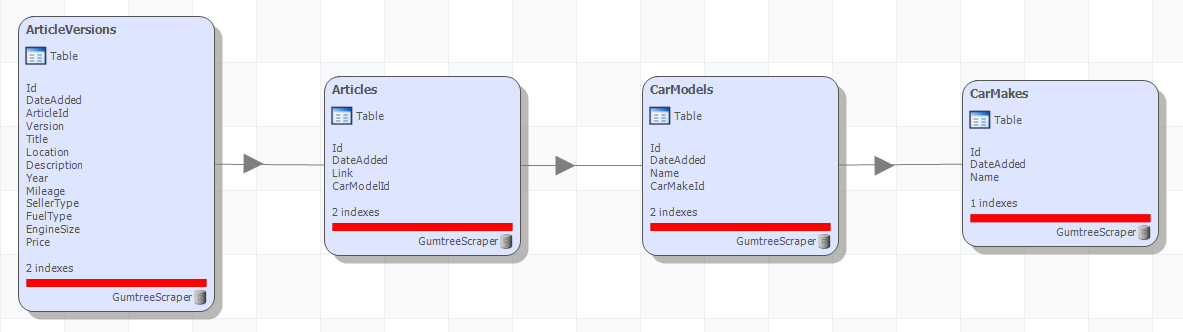
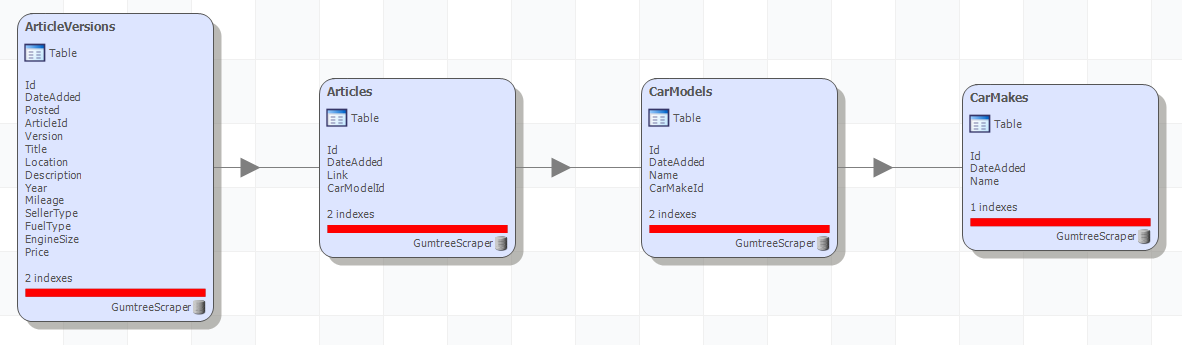
Added Posted property to ArticleVersion. Updated DbModel

diff --git a/GumtreeScraper/Program.cs b/GumtreeScraper/Program.cs
@@ -30,6 +30,7 @@ namespace GumtreeScraper
         private static readonly Regex RemoveNonNumeric = new Regex(@"[^\d]");
         private static readonly Regex RemoveLineBreaks = new Regex(@"\r\n?|\n");
         private static readonly Regex RemoveExcessLocationText = new Regex(@".* \| ");
+        private static readonly Regex RemoveExcessAdPostedText = new Regex(@".*\n");
 
         private static string _carMake;
         private static string _carModel;
@@ -68,7 +69,7 @@ namespace GumtreeScraper
 
                 _wait = new WebDriverWait(_driver, new TimeSpan(0, 0, Timeout));
 
-                // Scrape results by paging through from oldest to latest.
+                // Scrape results by paging through from oldest to latest page.
                 for (int i = Pages; i >= 1; i--)
                 {
                     // Set page.
@@ -77,9 +78,9 @@ namespace GumtreeScraper
                     _driver.Url = currentPage;
                     _wait.Until(d => d.FindElement(By.XPath(@"//*[@id=""srp-results""]/div[1]"))); // Results div.
 
-                    // Find article results.
+                    // Find article results from oldest to newest article.
                     IList<IWebElement> results = _driver.FindElements(By.XPath(@"//*[a[@class=""listing-link""]]"));
-                    foreach (IWebElement result in results)
+                    foreach (IWebElement result in results.Reverse())
                     {
                         try
                         {
@@ -127,13 +128,17 @@ namespace GumtreeScraper
                                 if (!String.IsNullOrWhiteSpace(fuelTypeOrEngineSize)) engineSize = fuelTypeOrEngineSize;
                             }
 
+                            string posted = null;
+                            try { posted = _driver.FindElement(By.XPath($"{path}/a/div[2]/div[2]/span")).Text.Trim(); } catch (Exception) { Log.Debug("Could not get postedOn."); }
+
                             string price = _driver.FindElement(By.XPath($"{path}/a/div[2]/span")).Text.Trim();
 
-                            // Standardise results.
+                            // Cleanse results.
                             try { location = RemoveExcessLocationText.Replace(RemoveLineBreaks.Replace(location, " "), String.Empty); } catch (Exception) { }
                             try { year = RemoveNonNumeric.Replace(year, String.Empty); } catch (Exception) { }
                             try { mileage = RemoveNonNumeric.Replace(mileage, String.Empty); } catch (Exception) { }
                             try { engineSize = RemoveNonNumeric.Replace(engineSize, String.Empty); } catch (Exception) { }
+                            try { posted = RemoveExcessAdPostedText.Replace(posted, String.Empty); } catch (Exception) { }
                             try { price = RemoveNonNumeric.Replace(price, String.Empty); } catch (Exception) { }
 
                             // De-duplication.
@@ -151,20 +156,20 @@ namespace GumtreeScraper
                                 dbArticle = dbArticleVersion.VirtualArticle;
 
                                 // Hash db article version.
-                                byte[] dbtitleBytes = Encoding.ASCII.GetBytes(dbArticleVersion.Title);
-                                byte[] dblocationBytes = Encoding.ASCII.GetBytes(dbArticleVersion.Location);
-                                byte[] dbdescriptionBytes = Encoding.ASCII.GetBytes(dbArticleVersion.Description);
+                                byte[] dbTitleBytes = Encoding.ASCII.GetBytes(dbArticleVersion.Title);
+                                byte[] dbLocationBytes = Encoding.ASCII.GetBytes(dbArticleVersion.Location);
+                                byte[] dbDescriptionBytes = Encoding.ASCII.GetBytes(dbArticleVersion.Description);
                                 byte[] dbYearBytes = { };
                                 try { dbYearBytes = Encoding.ASCII.GetBytes(dbArticleVersion.Year.ToString()); } catch (Exception) { }
-                                byte[] dbmileageBytes = { };
-                                try { dbmileageBytes = Encoding.ASCII.GetBytes(dbArticleVersion.Mileage.ToString()); } catch (Exception) { }
+                                byte[] dbMileageBytes = { };
+                                try { dbMileageBytes = Encoding.ASCII.GetBytes(dbArticleVersion.Mileage.ToString()); } catch (Exception) { }
                                 byte[] dbSellerTypeBytes = Encoding.ASCII.GetBytes(dbArticleVersion.SellerType);
-                                byte[] dbfuelTypeBytes = { };
-                                try { dbfuelTypeBytes = Encoding.ASCII.GetBytes(dbArticleVersion.FuelType); } catch (Exception) { }
-                                byte[] dbengineSizeBytes = { };
-                                try { dbengineSizeBytes = Encoding.ASCII.GetBytes(dbArticleVersion.EngineSize.ToString()); } catch (Exception) { }
-                                byte[] dbpriceBytes = Encoding.ASCII.GetBytes(dbArticleVersion.Price.ToString());
-                                byte[] dbBytes = CombineBytes(dbtitleBytes, dblocationBytes, dbdescriptionBytes, dbYearBytes, dbmileageBytes, dbSellerTypeBytes, dbfuelTypeBytes, dbengineSizeBytes, dbpriceBytes);
+                                byte[] dbFuelTypeBytes = { };
+                                try { dbFuelTypeBytes = Encoding.ASCII.GetBytes(dbArticleVersion.FuelType); } catch (Exception) { }
+                                byte[] dbEngineSizeBytes = { };
+                                try { dbEngineSizeBytes = Encoding.ASCII.GetBytes(dbArticleVersion.EngineSize.ToString()); } catch (Exception) { }
+                                byte[] dbPriceBytes = Encoding.ASCII.GetBytes(dbArticleVersion.Price.ToString());
+                                byte[] dbBytes = CombineBytes(dbTitleBytes, dbLocationBytes, dbDescriptionBytes, dbYearBytes, dbMileageBytes, dbSellerTypeBytes, dbFuelTypeBytes, dbEngineSizeBytes, dbPriceBytes);
                                 string dbHash = GenerateHash(dbBytes);
 
                                 // Hash fetched verison of this article.
@@ -220,6 +225,7 @@ namespace GumtreeScraper
                             articleVersion.SellerType = sellerType;
                             articleVersion.FuelType = fuelType;
                             articleVersion.EngineSize = engineSize != null ? int.Parse(engineSize) : (int?)null;
+                            articleVersion.Posted = posted;
                             articleVersion.Price = int.Parse(price);
                             ArticleVersionRepo.Create(articleVersion);
                             Log.Info($"Saved new article version with {articleState} article.");

diff --git a/GumtreeScraper.Model/ArticleVersion.cs b/GumtreeScraper.Model/ArticleVersion.cs
@@ -10,6 +10,8 @@ namespace GumtreeScraper.Model
 
         public DateTime DateAdded { get; set; }
 
+        public string Posted { get; set; }
+
         public int ArticleId { get; set; }
 
         public int Version { get; set; }
